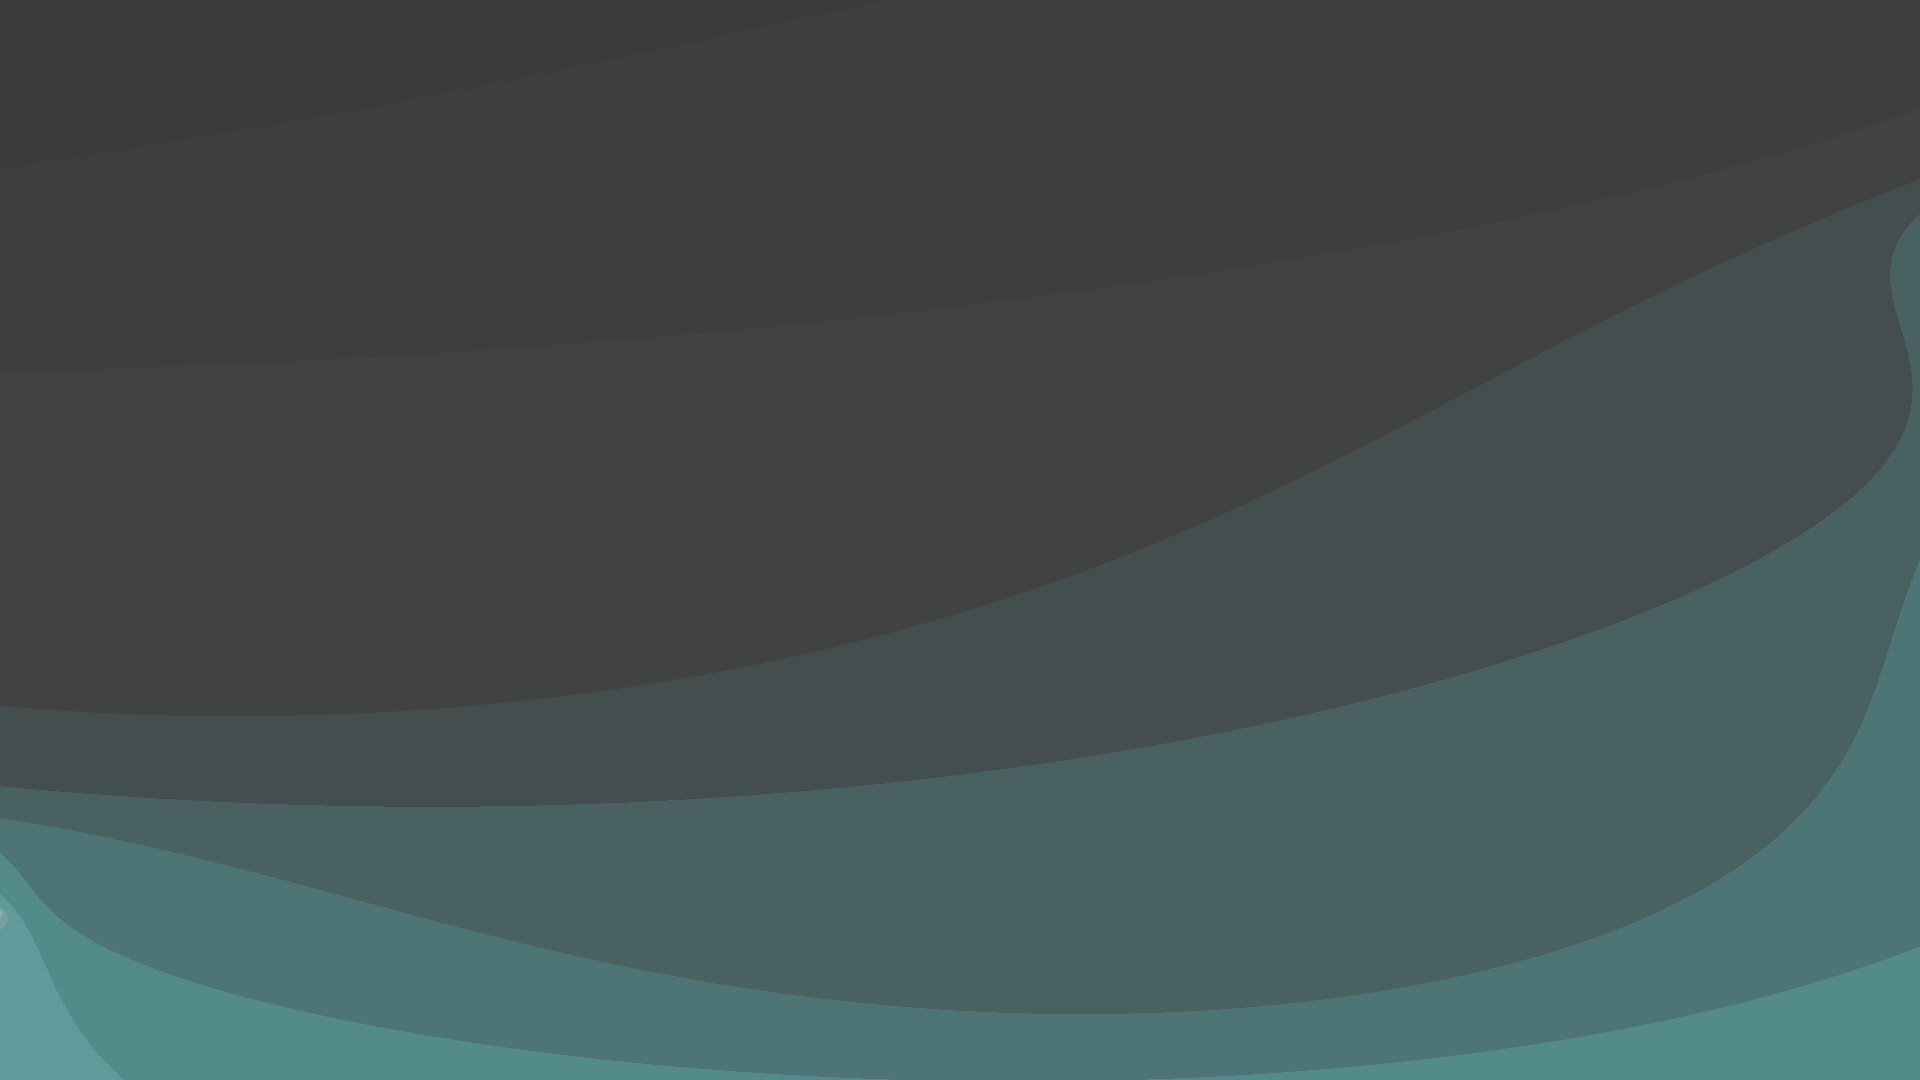
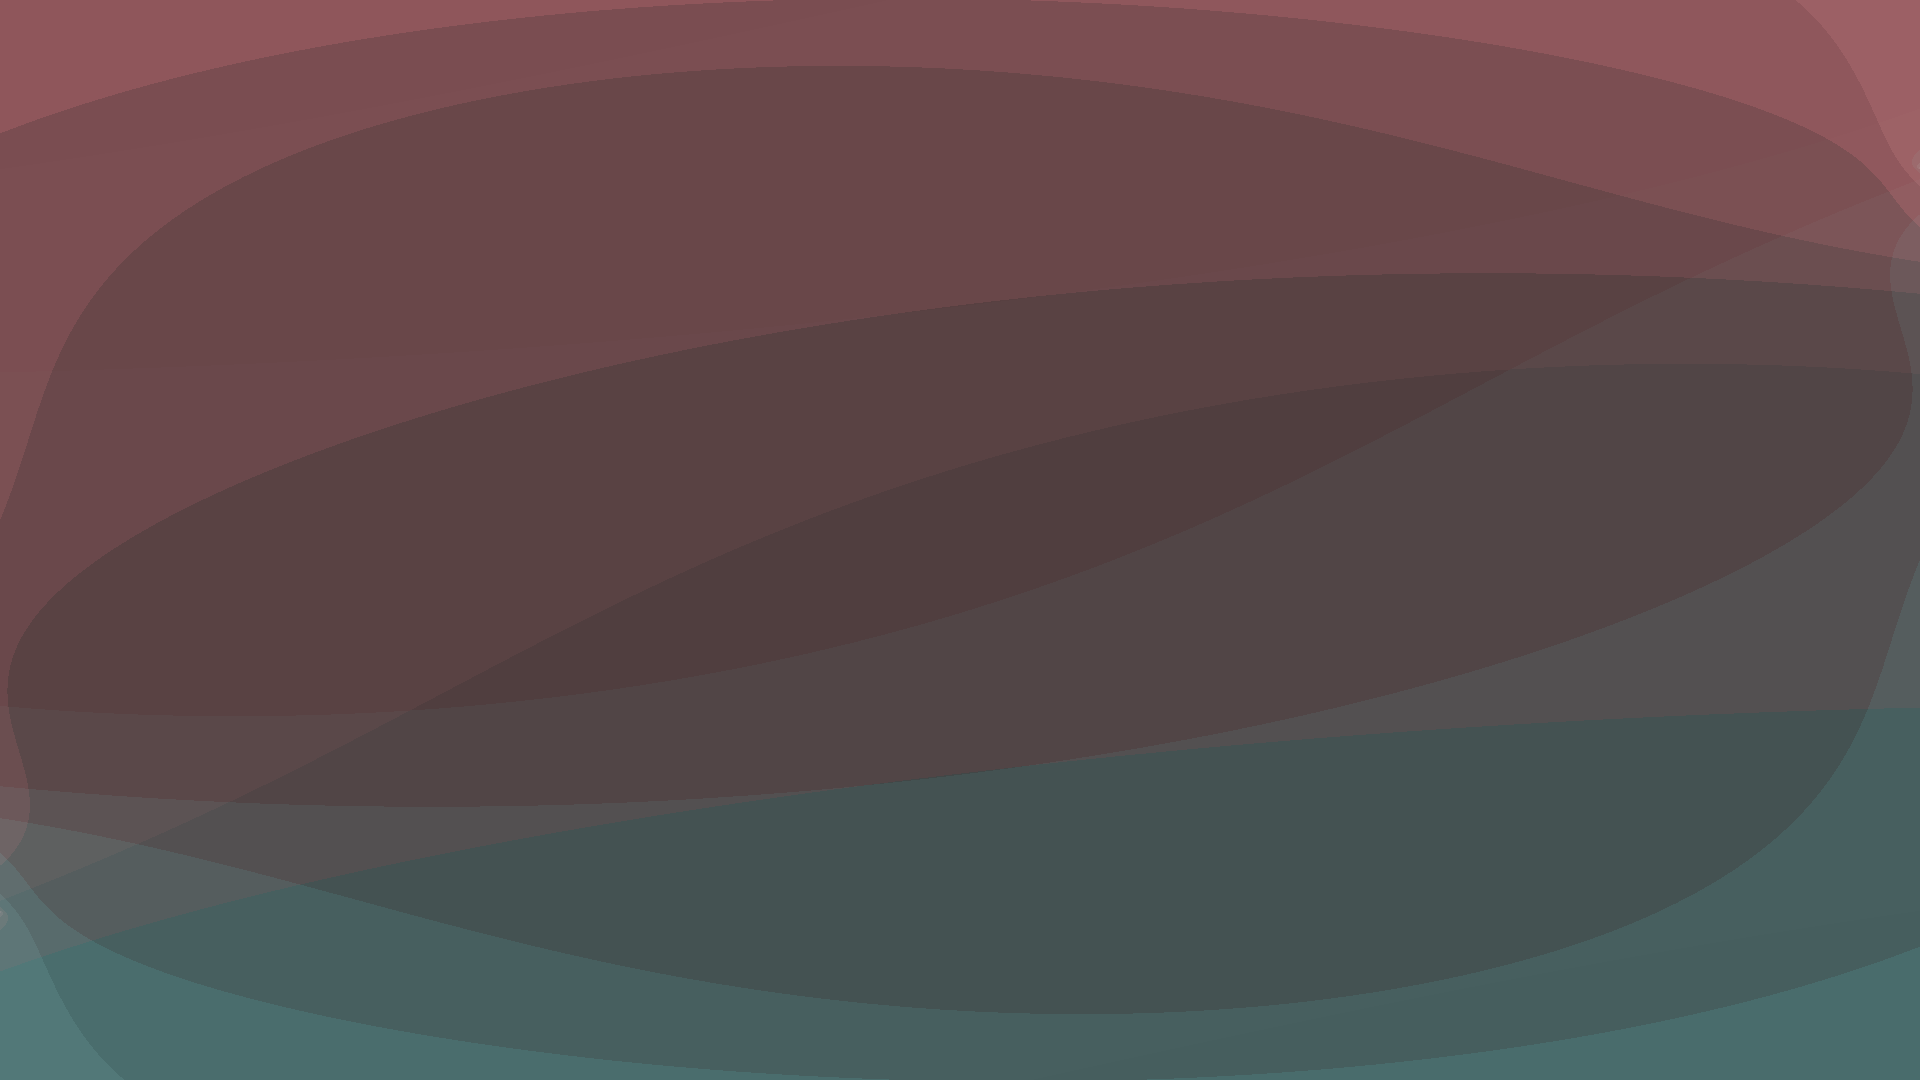
issue0006: futher changes for deployement

diff --git a/src/pages/Account.vue b/src/pages/Account.vue
@@ -31,7 +31,7 @@ const defaultAvatarUrl = new URL('../data/avatar.png', import.meta.url).href
 
 const themes = [
   { id: 'light', label: 'Light', accent: '#6366f1', dark: false },
-  { id: 'dark', label: 'Dark', accent: '#6366f1', dark: true },
+  { id: 'dark', label: 'Dark', accent: '#000000', dark: true },
   { id: 'ocean', label: 'Ocean', accent: '#14b8a6', dark: true },
   { id: 'crimson', label: 'Crimson', accent: '#ef4444', dark: false },
   { id: 'hm', label: 'HM OS', accent: '#d946ef', dark: false },

diff --git a/src/python/client.py b/src/python/client.py
@@ -1,3 +1,4 @@
+
 """Simple Testwall web API client.
 
 Run on each Windows machine:
